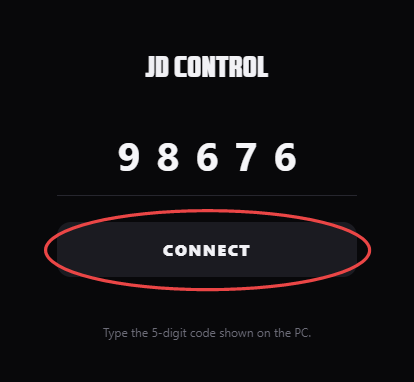
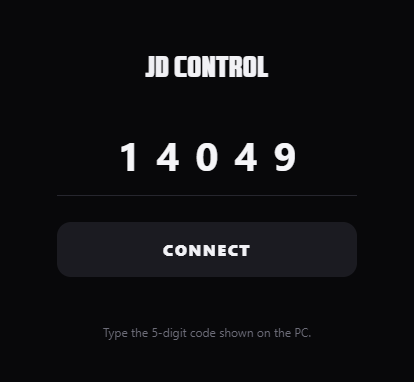
Keep the gallery clean and mark buttons only in the walkthrough
The screenshots section now shows plain captures; the usage steps use copies
with a red oval on the button to press.

diff --git a/README.md b/README.md
@@ -74,13 +74,13 @@ To build from source you do need .NET Framework 4.x (`csc.exe`) and Node.js 18+.
 
 ### 1. Open the room
 
-<img src="docs/panel-closed.png" width="320">
+<img src="docs/step-open-server.png" width="320">
 
 Press **Open server**. The panel switches to `room created: online active` (in green) and shows the code and the QR.
 
 ### 2. Connect your phone
 
-<img src="docs/mobile-code.png" width="240">
+<img src="docs/step-connect.png" width="240"> <img src="docs/step-enable-sensors.png" width="240">
 
 Scan the QR with the phone camera or open the link. Type the 5-digit code, press **CONNECT** and then **ENABLE SENSORS**. The phone page follows the phone language (English, Spanish or Portuguese). The accelerometer only works over HTTPS, and the tunnel link already is.
 
@@ -94,7 +94,7 @@ Press **Close server**: the room closes, the tunnel stops and the phones disconn
 
 ### 5. Join a room from another PC
 
-<img src="docs/panel-join.png" width="320">
+<img src="docs/step-join.png" width="320">
 
 On the other PC: **Join room** → type the host IP (`192.168.1.20`) **or** its tunnel URL (`https://something.trycloudflare.com`) and the code.
 
